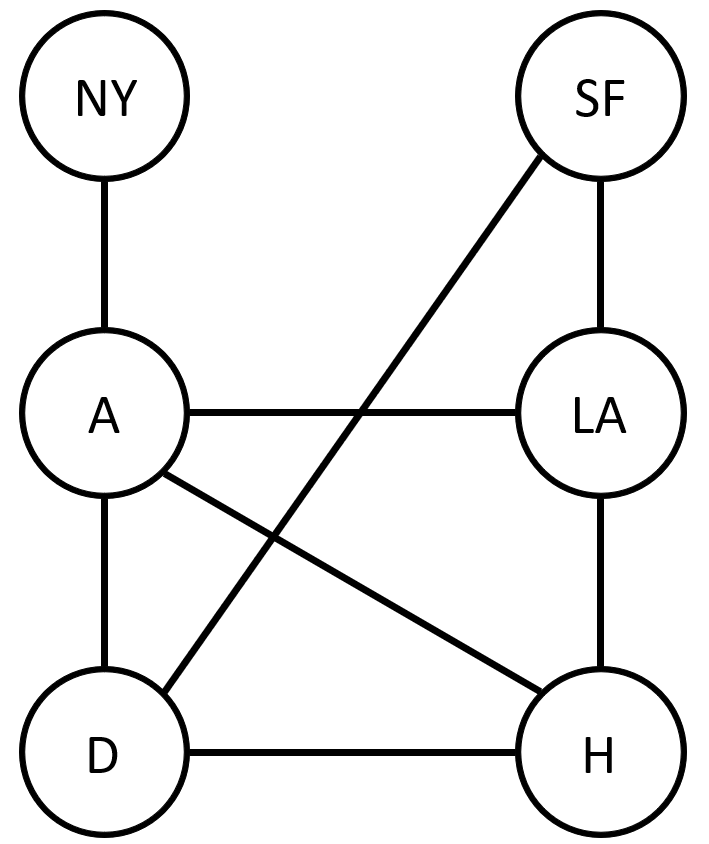
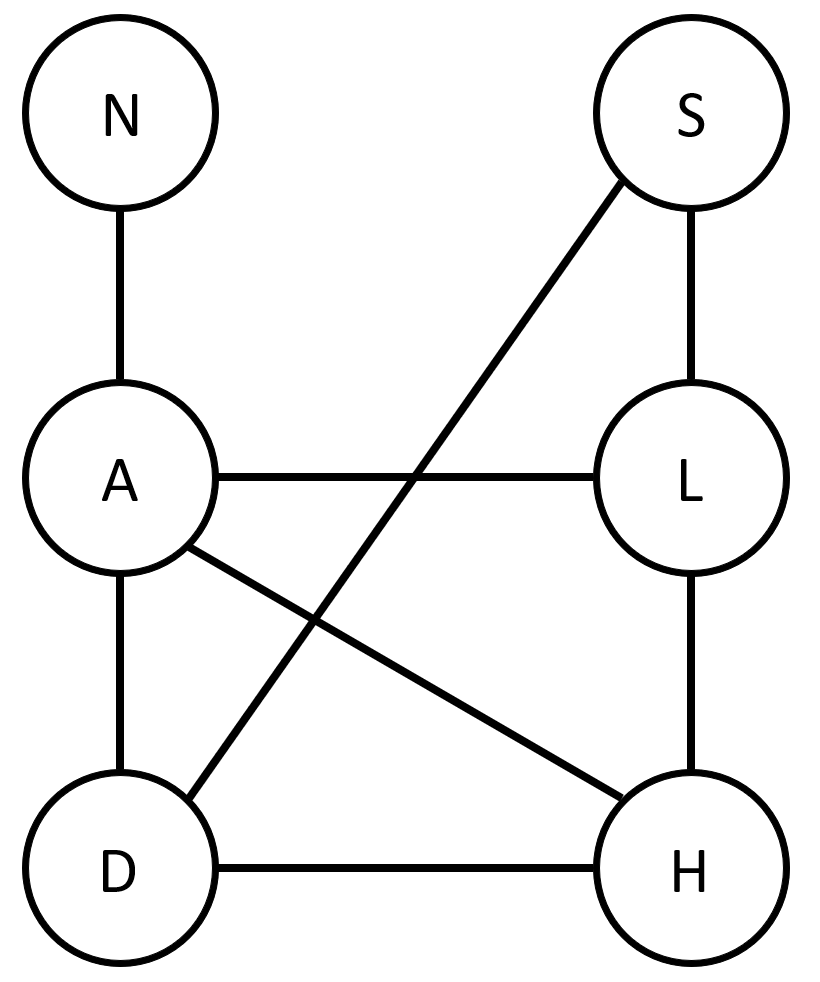
updated example graph images

diff --git a/Algorithms/Graphs/readme.md b/Algorithms/Graphs/readme.md
@@ -3,33 +3,35 @@ A graph is a data structure used in computer science and mathematics. Graphs are
 
 The vertices of a graph, also called nodes or points, are a finite but possibly changeable set of values and are written as a set of names, e.g. V=(A, B, C, ..). If we were to model the airline route network as a graph the cities would be represented as vertices. For example:
 
-Cities         
-New York -> NY
-Los Angeles -> LA
-Houston -> H
-San Francisco -> SF
-Atlanta -> A
-Denver -> D
+| Cities                |
+|-----------------------|
+| New York ( N )        |
+| Los Angeles ( L )     |
+| Houston ( H )         |
+| San Francisco ( S )   |
+| Atlanta ( A )         |
+| Denver ( D )          |
 
 The set of graph vertices would be defined as: 
-V = (NY, LA, H, SF, A, D)
+V = (N, L, H, S, A, D)
 
 The edges or connections between vertices are called edges. These edges are known as arcs, lines, and arrows. Edges are written as a set of unordered pairs, e.g. E= ((A,B), (A,C), ..). They represent the relations between values. In our airline example the graph edges would be the available flights between cites.
 
-Flights
-New York to Atlanta (NY, A)
-Atlanta to Denver (A, D)
-Atlanta to Houston (A, H)
-Atlanta to Los Angeles (A, LA)
-Denver to San Francisco (D, SF)
-Denver to Houston (D, H)
-San Francisco to Los Angeles (SF, LA)
-Los Angeles to Houston (LA, H)
+| Flights                               |
+|---------------------------------------|
+| New York to Atlanta (N, A)            |
+| Atlanta to Denver (A, D)              |
+| Atlanta to Houston (A, H)             |
+| Atlanta to Los Angeles (A, L)         |
+| Denver to San Francisco (D, S)        |
+| Denver to Houston (D, H)              |
+| San Francisco to Los Angeles (S, L)   |
+| Los Angeles to Houston (L, H)         |
 
 The set of graph edges would be defined as: 
-E = ((NY, A), (A, D), (A, H), (A, LA), (D, SF), (D, H), (SF, LA), (LA, H))
+E = ((N, A), (A, D), (A, H), (A, L), (D, S), (D, H), (S, L), (L, H))
 
-These vertices and edges are what make up a graph. More formally, a graph is defined as a set of vertices( V ), a set of edges( E ) and is denoted by G(E, V). flights = G(E, V)
+These vertices and edges are what make up a graph. More formally, a graph is defined as a set of vertices( V ), a set of edges( E ) and is denoted by G(E, V). Flights = G(E, V)
 
 A graph representing the relation between cities and flights would look like this:
 
@@ -43,119 +45,145 @@ There are a few different types of graphs that are used in computer science. Not
 
 - Directed Graph - Also called a Digraph, is a graph where edges of the graph go only one way with the directions marked with arrows. The above graph is an example of a directed graph.
 
-Directed Flights Graph
+    Directed Flights Graph
 
-<img src="graphImages\directedFlightsGraph.png " width="150" />
+    <img src="graphImages\directedFlightsGraph.png " width="150" />
 
-- Undirected Graph - A graph where edges of the graph are two-way paths or relations. If we were to update change the flghts examples to be round-trip or two way we would get an undirected graph. 
+- Undirected Graph - A graph where edges of the graph are two-way paths or relations. If we were to update change the flights examples to be round-trip or two way we would get an undirected graph.
 
-Undirected Flights Graph
+    Undirected Flights Graph
 
-<img src="graphImages\undirectedFlightsGraph.png " width="150" />
+    <img src="graphImages\undirectedFlightsGraph.png " width="150" />
 
 - Unweighted Graph - A graph were the edges of the graph do not have any weight or cost associated with them. Undirected graphs are used to model connections. like social networks, where the cost of connecting two vertices does not matter. The above graph is an example of an undirected graph.
 
-- Weighted Graph - A graph where edges of the graph have costs or weights associated with them. As we traverse the graph we can add up the costs of the edges to get the total cost of taking the route. From theses costs we can determine the shortest path or the cheapest route. If we add weights to our flight graph we get the following weighted graph. 
+- Weighted Graph - A graph where edges of the graph have costs or weights associated with them. As we traverse the graph we can add up the costs of the edges to get the total cost of taking the route. From theses costs we can determine the shortest path or the cheapest route. If we add weights to our flight graph we get the following weighted graph. Edge costs: N->A:3, A->D:2, A->H:3, A->L:2, D->S:4, D->H:1, S->L:2, L->H:4
 
-Weighted Flights Graph - ToDo-fix image, one edge is missing an image. 
+    Weighted Flights Graph
 
-<img src="graphImages\weightedDirectedFlightsGraph.png " width="150" />
+    <img src="graphImages\weightedDirectedFlightsGraph.png " width="150" />
 
 - Connected Graphs 
-    - Undirected Connected and Disconnected Graphs - An undirected graph is considered connected if there exists a path between every pair of vertices. Otherwise it is disconnected. In a undirected connected graph you can get to very node in the graph from any other node. The  flight graph is an undirected connected graph but if we remove the edge between NY and A it would create an undirected graph. 
+    - Undirected Connected and Disconnected Graphs - An undirected graph is considered connected if there exists a path between every pair of vertices. Otherwise it is disconnected. In a undirected connected graph you can get to very node in the graph from any other node. The  flight graph is an undirected connected graph but if we remove the edge between N and A it would create an disconnected graph.
 
         Disconnected Flights Graph
 
-        <img src="graphImages\disconnectedDirectedFlightsGraph.png " width="150" />
+        <img src="graphImages\disconnectedFlightsGraph.png " width="150" />
 
-    - Connected Directed Graphs - An directed graph can be strongly or weakly connected. A strongly connected digraph graph has as path from every vertex to every other other vertex. A weakly connected digraph is one where every vertex is connected to graph in some way. See [Kosaraju's Algorithm](Kosaraju%20Algorithm/readme.md) for calculating strongly connected components in a graph. If we ignore the directionality of the edges and make our graph undirected that is connected then the digraph is considered weakly connected. Our digraph flight example is not an strongly connected graph but it is weakly connected. to create a strongly connected graph we would have to add more connecting edges.
+    - Connected Directed Graphs - An directed graph can be strongly or weakly connected. A strongly connected digraph graph has as path from every vertex to every other other vertex. A weakly connected digraph is one where every vertex is connected to graph in some way. See [Kosaraju's Algorithm](Kosaraju%20Algorithm/readme.md) for calculating strongly connected components in a graph. If we ignore the directionality of the edges and make our graph undirected that is connected then the digraph is considered weakly connected. Our digraph flight example is not an strongly connected graph but it is weakly connected. To create a strongly connected graph we would have to add more connecting edges.
 
-        Todo-Example?  
+- Acyclic and Cyclic Graphs - Graphs can have cycles or paths that allow us to get back to the same node. In other words A cycle is a path that starts and ends at the same vertex. A graph is cyclic if is has one or more of these loops and acyclic and if it does not. Not all graphs have a cycle and some algorithms like Prims assume there are no cycles and algorithms like Floyd-Warshall cannot handle negative cycles (a cycle where all the edge costs are negative). If we reverse one of the edges in our digraph, A->H and make it H->A we would have a graph with cycles.
 
-- Acyclic and Cyclic Graphs - Graphs can have cycles or paths that allow us to get back to the same node. In other words A cycle is a path that starts and ends at the same vertex. A graph is cyclic if is has one or more of these loops and acyclic and if it does not. Not all graphs have a cycle and some algorithms like Prims assume there are no cycles and algorithms like Floyd-Warshall cannot handle negative cycles (a cycle where all the edge costs are negative). 
+    Cycles Flights Graph
 
-    Todo-Example?  
+    <img src="graphImages\directedCyclesFlightsGraph.png " width="150" />
 
-- [Tree Graphs](Graphs/Tree%20Based%20Algorithms/readme.md) - Trees are acyclic and connected graphs where the vertices are connected in such a way that there is only one path between vertices. A tree graph will n vertices and n-1 edges with each node connected to the tree. A set of disconnected tree graphs is called a forest. A tree can have either directed or undirected edges.   
+- [Tree Graphs](Graphs/Tree%20Based%20Algorithms/readme.md) - Trees are acyclic and connected graphs where the vertices are connected in such a way that there is only one path between vertices. A tree graph will n vertices and n-1 edges with each node connected to the tree. A set of disconnected tree graphs is called a forest. A tree can have either directed or undirected edges. If we remove edges from our flights diagraph, we will get a tree graph.
 
-    Todo-Example?  
+    Tree Flights Graph
+
+    <img src="graphImages\directedTreeFlightsGraph.png " width="300" />
 
 ## Graph Components
 The typed of edges and vertices a graph has can vary. Here is a brief explanation of some of them.
 - Edges - An edge is a connection between two nodes. It can be denoted by any symbol such as E, F, G, H, etc. An edge may also be referred to as a link or a line. 
-    - Weighted Edge - When a weight or cost value associated with an edge it is an weighted edge. The weight may also be referred to as a cost. This cost can be distance, money, time, etc. These weights can be zero, negative, positive, or infinite. It depends on the relations the graph is representing. See Weighted Flights Graph for an example. 
-    - Undirected - A undirected edge is an edge that allows for to two way connections. In other words, if vertex A is connected to B then B is connected to A. See Undirected Flights Graph for an example. 
-    - Directed - A directed edge is an edge that only goes one way. In other words, vertex A is connected to B but B is not connected to A. If we were to alter the flight list in the above example and change the flights to be one-way then the edges would become directed edges. see Directed Flights Graph for an example.  
+    - Weighted Edge - When a weight or cost value associated with an edge it is an weighted edge. The weight may also be referred to as a cost. This cost can be distance, money, time, etc. These weights can be zero, negative, positive, or infinite. It depends on the relations the graph is representing. See Weighted Flights Graph for an example.
+    - Undirected - A undirected edge is an edge that allows for to two way connections. In other words, if vertex A is connected to B then B is connected to A. See Undirected Flights Graph for an example.
+    - Directed - A directed edge is an edge that only goes one way. In other words, vertex A is connected to B but B is not connected to A. If we were to alter the flight list in the above example and change the flights to be one-way then the edges would become directed edges. see Directed Flights Graph for an example.
 
 - Vertices - A vertex is a node of the graph. It can be denoted by any symbol such as V, U, X, Y, etc. Vertices also have a degree, or the number of edges connected to it. A vertex’s in-degree is defined as the number of edges that point to a vertex. The vertex’s out-degree is the number of edges that point to other vertices. In an undirected graph the in and out degree is the same. The different types of vertices are defined by these degrees.
-    - Isolated vertex - No edges pointing to the vertex, and it has no outgoing edges. Its in-degree and out-degree is zero. In the Disconnected Flights Graph NY is an isolated vertex. 
-    - Source vertex - No edges point to the vertex, its in-degree is zero. In the Directed Flights Graph, NY is a source vertex as there are no flights or edges going to the city. 
+    - Isolated vertex - No edges pointing to the vertex, and it has no outgoing edges. Its in-degree and out-degree is zero. In the Disconnected Flights Graph N is an isolated vertex.
+    - Source vertex - No edges point to the vertex, its in-degree is zero. In the Directed Flights Graph, N is a source vertex as there are no flights or edges going to the city.
     - Sink vertex - Has no outgoing edges, it’s out-degree is zero. In the Directed Flights Graph, vertex H is a sink vertex as there are no flights going out of that city.
-    - [Articulation Points](Graphs/Articulation%20Points/readme.md) - Also called a bridge, is vertex in an undirected graph that would created a disconnected graph if removed. if we were to remove A and all its edges from the Directed Flights Graph we would get an disconnected graph. A is an articulation point. 
+    - [Articulation Points](Graphs/Articulation%20Points/readme.md) - Also called a bridge, is vertex in an undirected graph that would created a disconnected graph if removed. if we were to remove A and all its edges from the Directed Flights Graph we would get an disconnected graph. A is an articulation point.
 
 
 ## Common Graph Representations
-In order to run algorithms on graphs we need to be able to store the vertex and edge data in a data structure. There are many different ways to represent a graph but the two most common ways are by using an adjacency matrix or list. 
+In order to run algorithms on graphs we need to be able to store the vertex and edge data in a data structure. There are many different ways to represent a graph but the two most common ways are by using an adjacency matrix or list.
 
 ### Adjacency Matrix
-An adjacency matrix is a 2D array of size V x V where V is the number of vertices in a graph. Let the 2D array be adj[][], a slot adj[i][j] = 1 indicates that there is an edge from vertex i to vertex j. Adjacency matrix for undirected graph is always symmetric. Adjacency Matrix is also used to represent weighted graphs. If adj[i][j] = w, then there is an edge from vertex i to vertex j with weight w.
+An adjacency matrix is a 2D array of size V x V where V is the number of vertices in a graph. Let the 2D array be adj[][], a slot adj[i][j] = 1 indicates that there is an edge from vertex i to vertex j. Adjacency matrix for undirected graph is always symmetric across the diagonal. Adjacency Matrix is also used to represent weighted graphs. If adj[i][j] = w, then there is an edge from vertex i to vertex j with weight w.
 
 #### Example
-Adjacency matrix for the undirected and directed flight graphs 
+Adjacency matrix for the undirected and directed flight graphs shown above
 
 Undirected 
-|    | NY | LA | H  | SF | A  | D  |
-|----|----|----|----|----|----|----|
-| NY |    |    |    |    | 1  |    |
-| LA |    |    | 1  | 1  | 1  |    |
-| H  |    | 1  |    |    | 1  | 1  |
-| SF |    | 1  |    |    |    | 1  |
-| A  | 1  | 1  | 1  |    |    | 1  |
-| D  |    |    | 1  | 1  | 1  |    |
+|   | N | L | H | S | A | D |
+|---|---|---|---|---|---|---|
+| N |   |   |   |   | 1 |   |
+| L |   |   | 1 | 1 | 1 |   |
+| H |   | 1 |   |   | 1 | 1 |
+| S |   | 1 |   |   |   | 1 |
+| A | 1 | 1 | 1 |   |   | 1 |
+| D |   |   | 1 | 1 | 1 |   |
 
-Weighted Directed - ToDo-fix to match image when its updated. 
-|    | NY | LA | H  | SF | A  | D  |
-|----|----|----|----|----|----|----|
-| NY |    |    |    |    | 3  |    |
-| LA |    |    | 4  |    |    |    |
-| H  |    |    |    |    |    |    |
-| SF |    | 2  |    |    |    |    |
-| A  |    | ?  | 3  |    |    |    |
-| D  | 2  |    | 1  | 3  |    |    |
+Weighted Directed
+Edge costs: N->A:3, A->D:2, A->H:3, A->L:2, D->S:4, D->H:1, S->L:2, L->H:4
+|   | N | L | H | S | A | D |
+|---|---|---|---|---|---|---|
+| N |   |   |   |   | 3 |   |
+| L |   |   | 4 |   |   |   |
+| H |   |   |   |   |   |   |
+| S |   | 2 |   |   |   |   |
+| A |   | 2 | 3 |   |   | 2 |
+| D |   |   | 1 | 4 |   |   |
 
 #### Adjacency Matrix code
-TODO test example code
-```
+```cpp
+// A C++ Program to demonstrate adjacency matrices
+// representation of graphs
 #include <iostream>
 #include <vector>
 using namespace std;
 
-const int N = 5; // number of vertices
-
-int main() 
+// A utility function to print the adjacency matrix
+// representation of graph
+void printGraph(vector<vector<int>> adj, int V)
 {
-  vector<vector<int>> adjMatrix(N, vector<int>(N, 0));
+    cout << "Adjacency matrix of graph\n";
 
-  // Add edges
-  adjMatrix[0][1] = 1; 
-  adjMatrix[0][4] = 1;
-  adjMatrix[1][2] = 1;
-  adjMatrix[1][3] = 1;
-  adjMatrix[1][4] = 1;
-  adjMatrix[2][3] = 1;
-  adjMatrix[3][4] = 1;
-
-  // Print the matrix
-  for (int i = 0; i < N; i++) 
-  {
-    for (int j = 0; j < N; j++) 
+    //print out column headers
+    cout << "  | ";
+    for (int h = 0; h < V; h++)
     {
-      cout << adjMatrix[i][j] << " "; 
+        cout << h << " ";
     }
     cout << endl;
-  }
+    for (int h = 0; h < V; h++)
+    {
+        cout << "---";
+    }
+    cout << endl;
 
-  return 0;
+    //print out matrix values
+    for (int r = 0; r < V; ++r)
+    {
+        cout << r << " | ";
+        for (int c = 0; c < V; c++)
+        {
+            cout << adj[r][c] << " ";
+        }
+        cout << endl;
+    }
+}
+
+//Driver code
+int main()
+{
+    const int V = 5; // number of vertices
+
+    vector<vector<int>> adjMatrix(V, vector<int>(V, 0));
+
+    // Add edges
+    adjMatrix[0][1] = 1;
+    adjMatrix[0][4] = 1;
+    adjMatrix[1][2] = 1;
+    adjMatrix[1][3] = 1;
+    adjMatrix[1][4] = 1;
+    adjMatrix[2][3] = 1;
+    adjMatrix[3][4] = 1;
+    printGraph(adjMatrix, V);
+    return 0;
 }
 ```
 
@@ -164,20 +192,20 @@ An adjacency list is a collection of unordered lists used to represent a finite 
 
 #### Example
 Undirected 
-NY -> A
-LA -> H
-H  ->
-SF -> LA
-A  -> D, H, LA
-D  -> SF, H
+N -> A
+L -> H
+H ->
+S -> L
+A -> D, H, L
+D -> S, H
 
-Weighted Directed  ToDo-fix to match image when its updated. 
-NY -> A(3)
-LA -> H(4)
-H  ->
-SF -> LA(2)
-A  -> D(2), H(3), LA(?)
-D  -> SF(4), H(1)
+Weighted Directed
+N -> A(3)
+L -> H(4)
+H ->
+S -> L(2)
+A -> D(2), H(3), L(2)
+D -> S(4), H(1)
 
 #### Adjacency list code
 ```cpp
@@ -205,14 +233,14 @@ void printGraph(vector<int> adj[], int V)
              << v << "\n head ";
         for (auto x : adj[v])
            cout << "-> " << x;
-        printf("\n");
+        cout << "\n";
     }
 }
 
 // Driver code
 int main()
 {
-    int V = 5;
+    int const V = 5;
     vector<int> adj[V];
     addEdge(adj, 0, 1);
     addEdge(adj, 0, 4);
